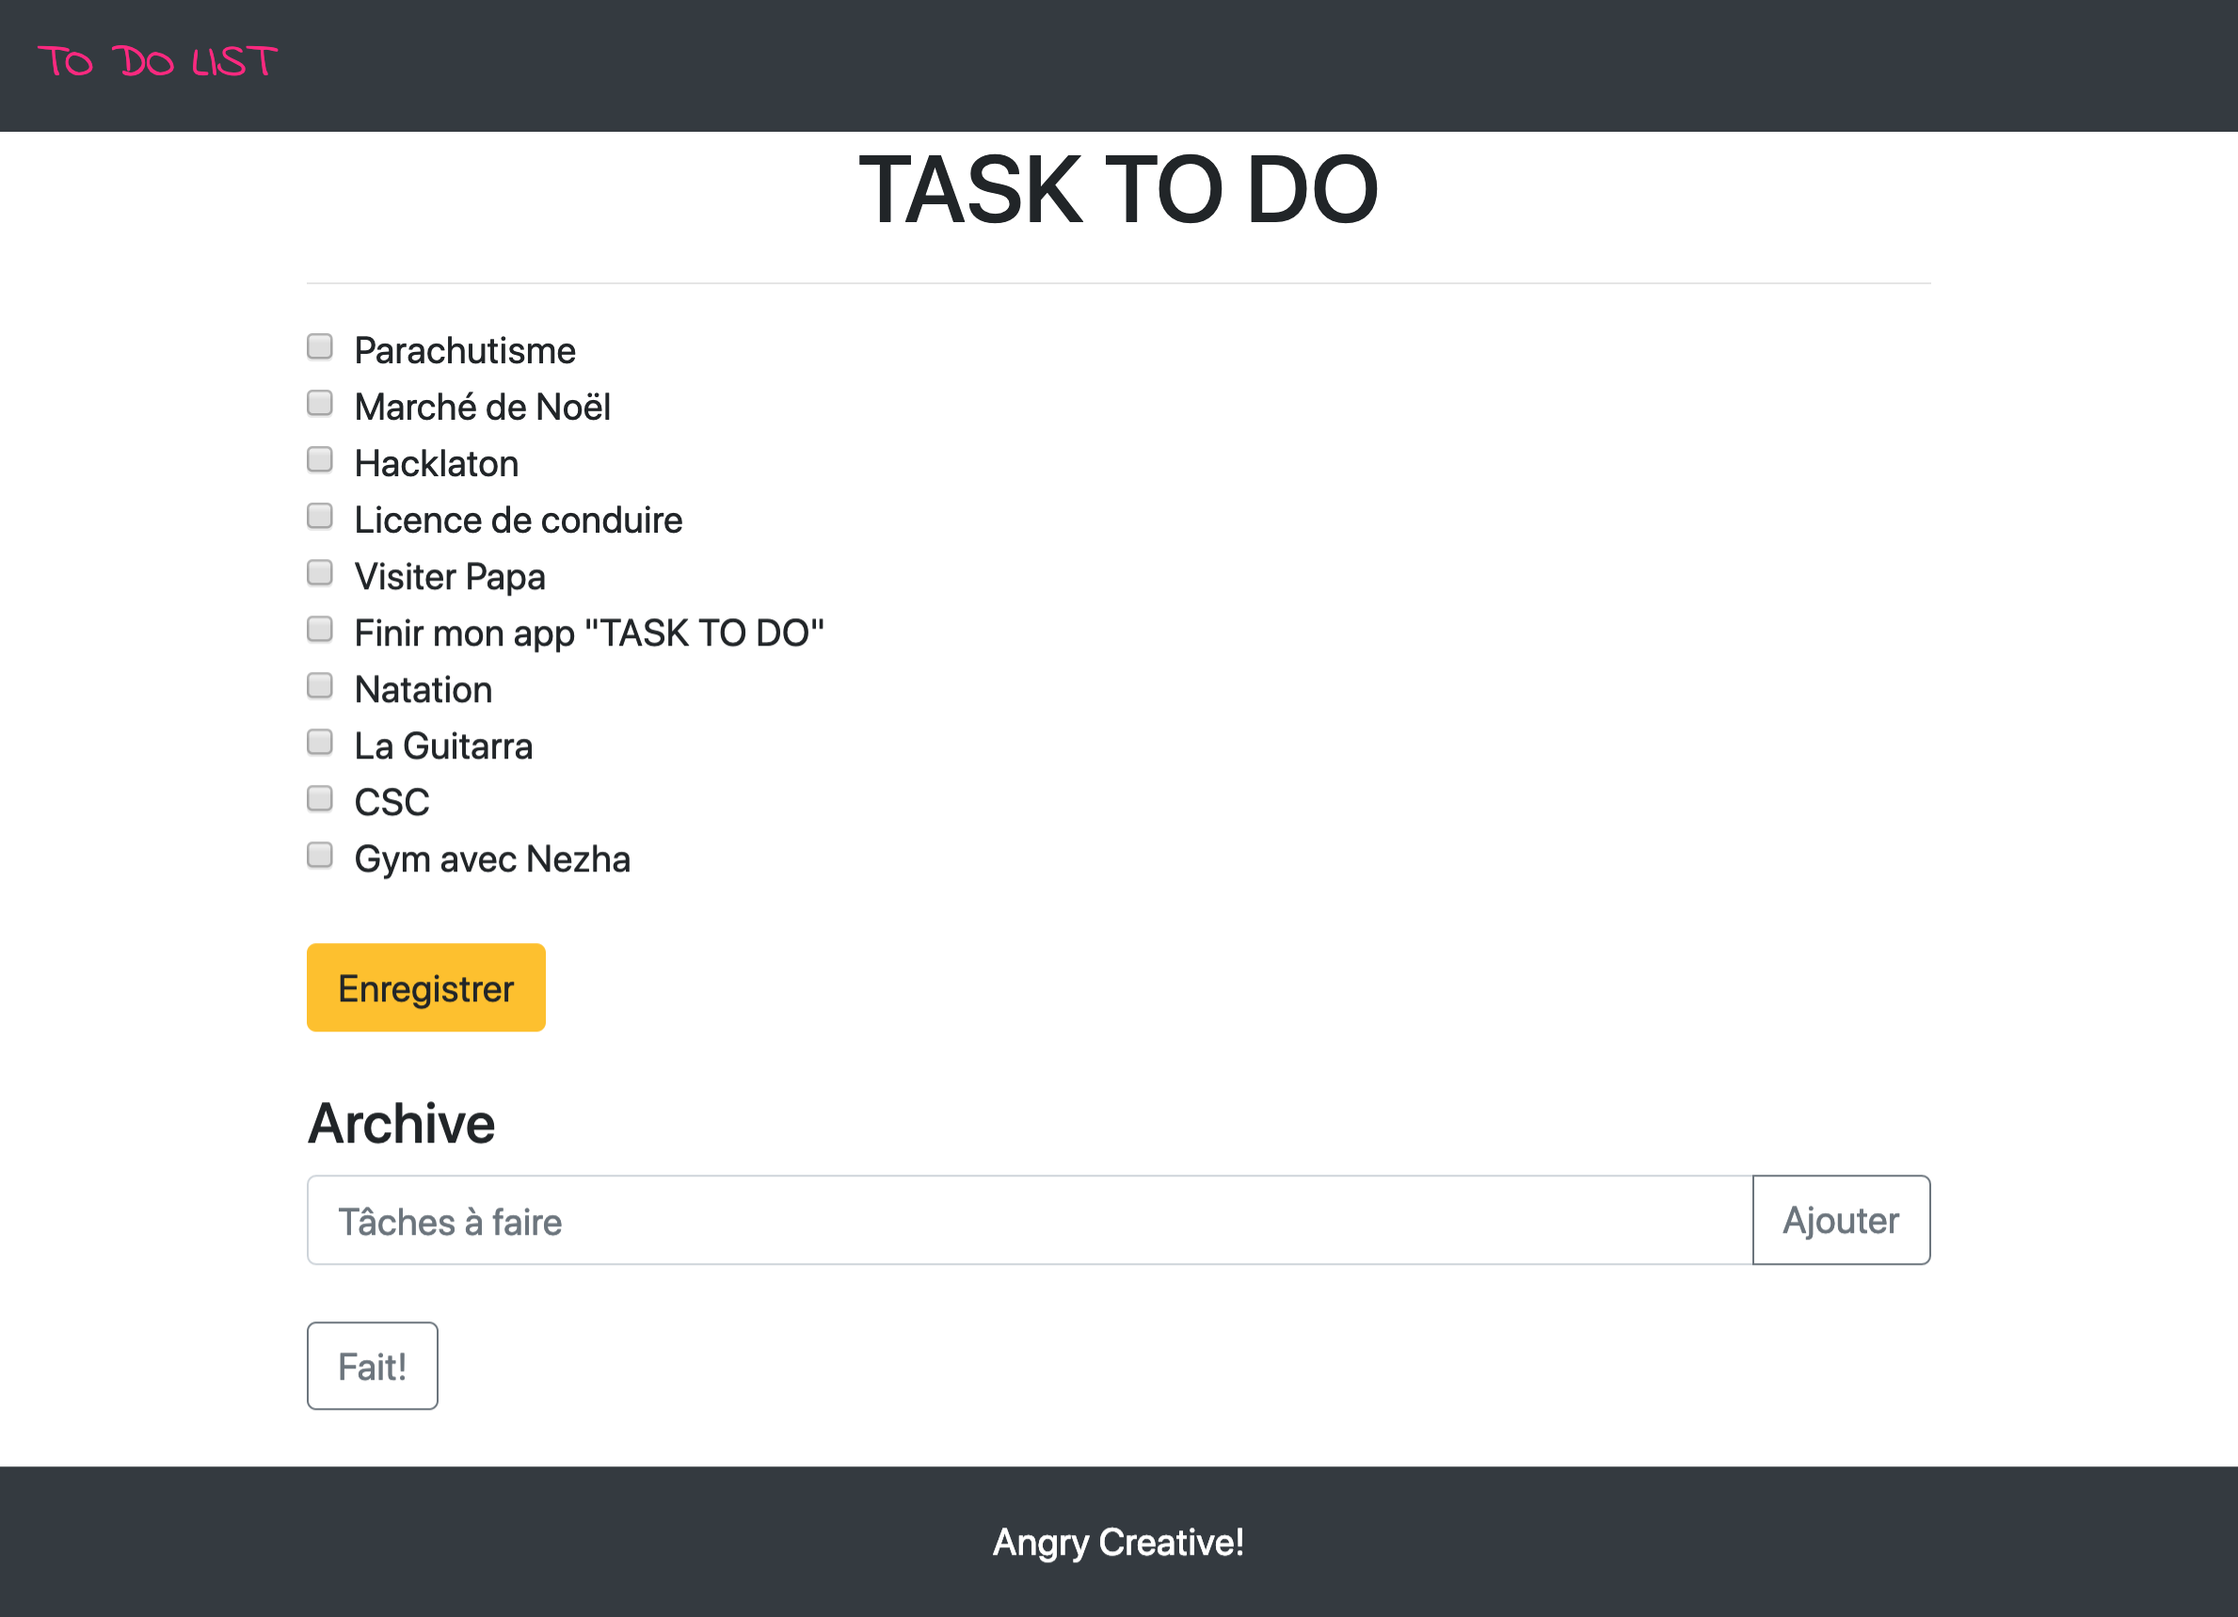
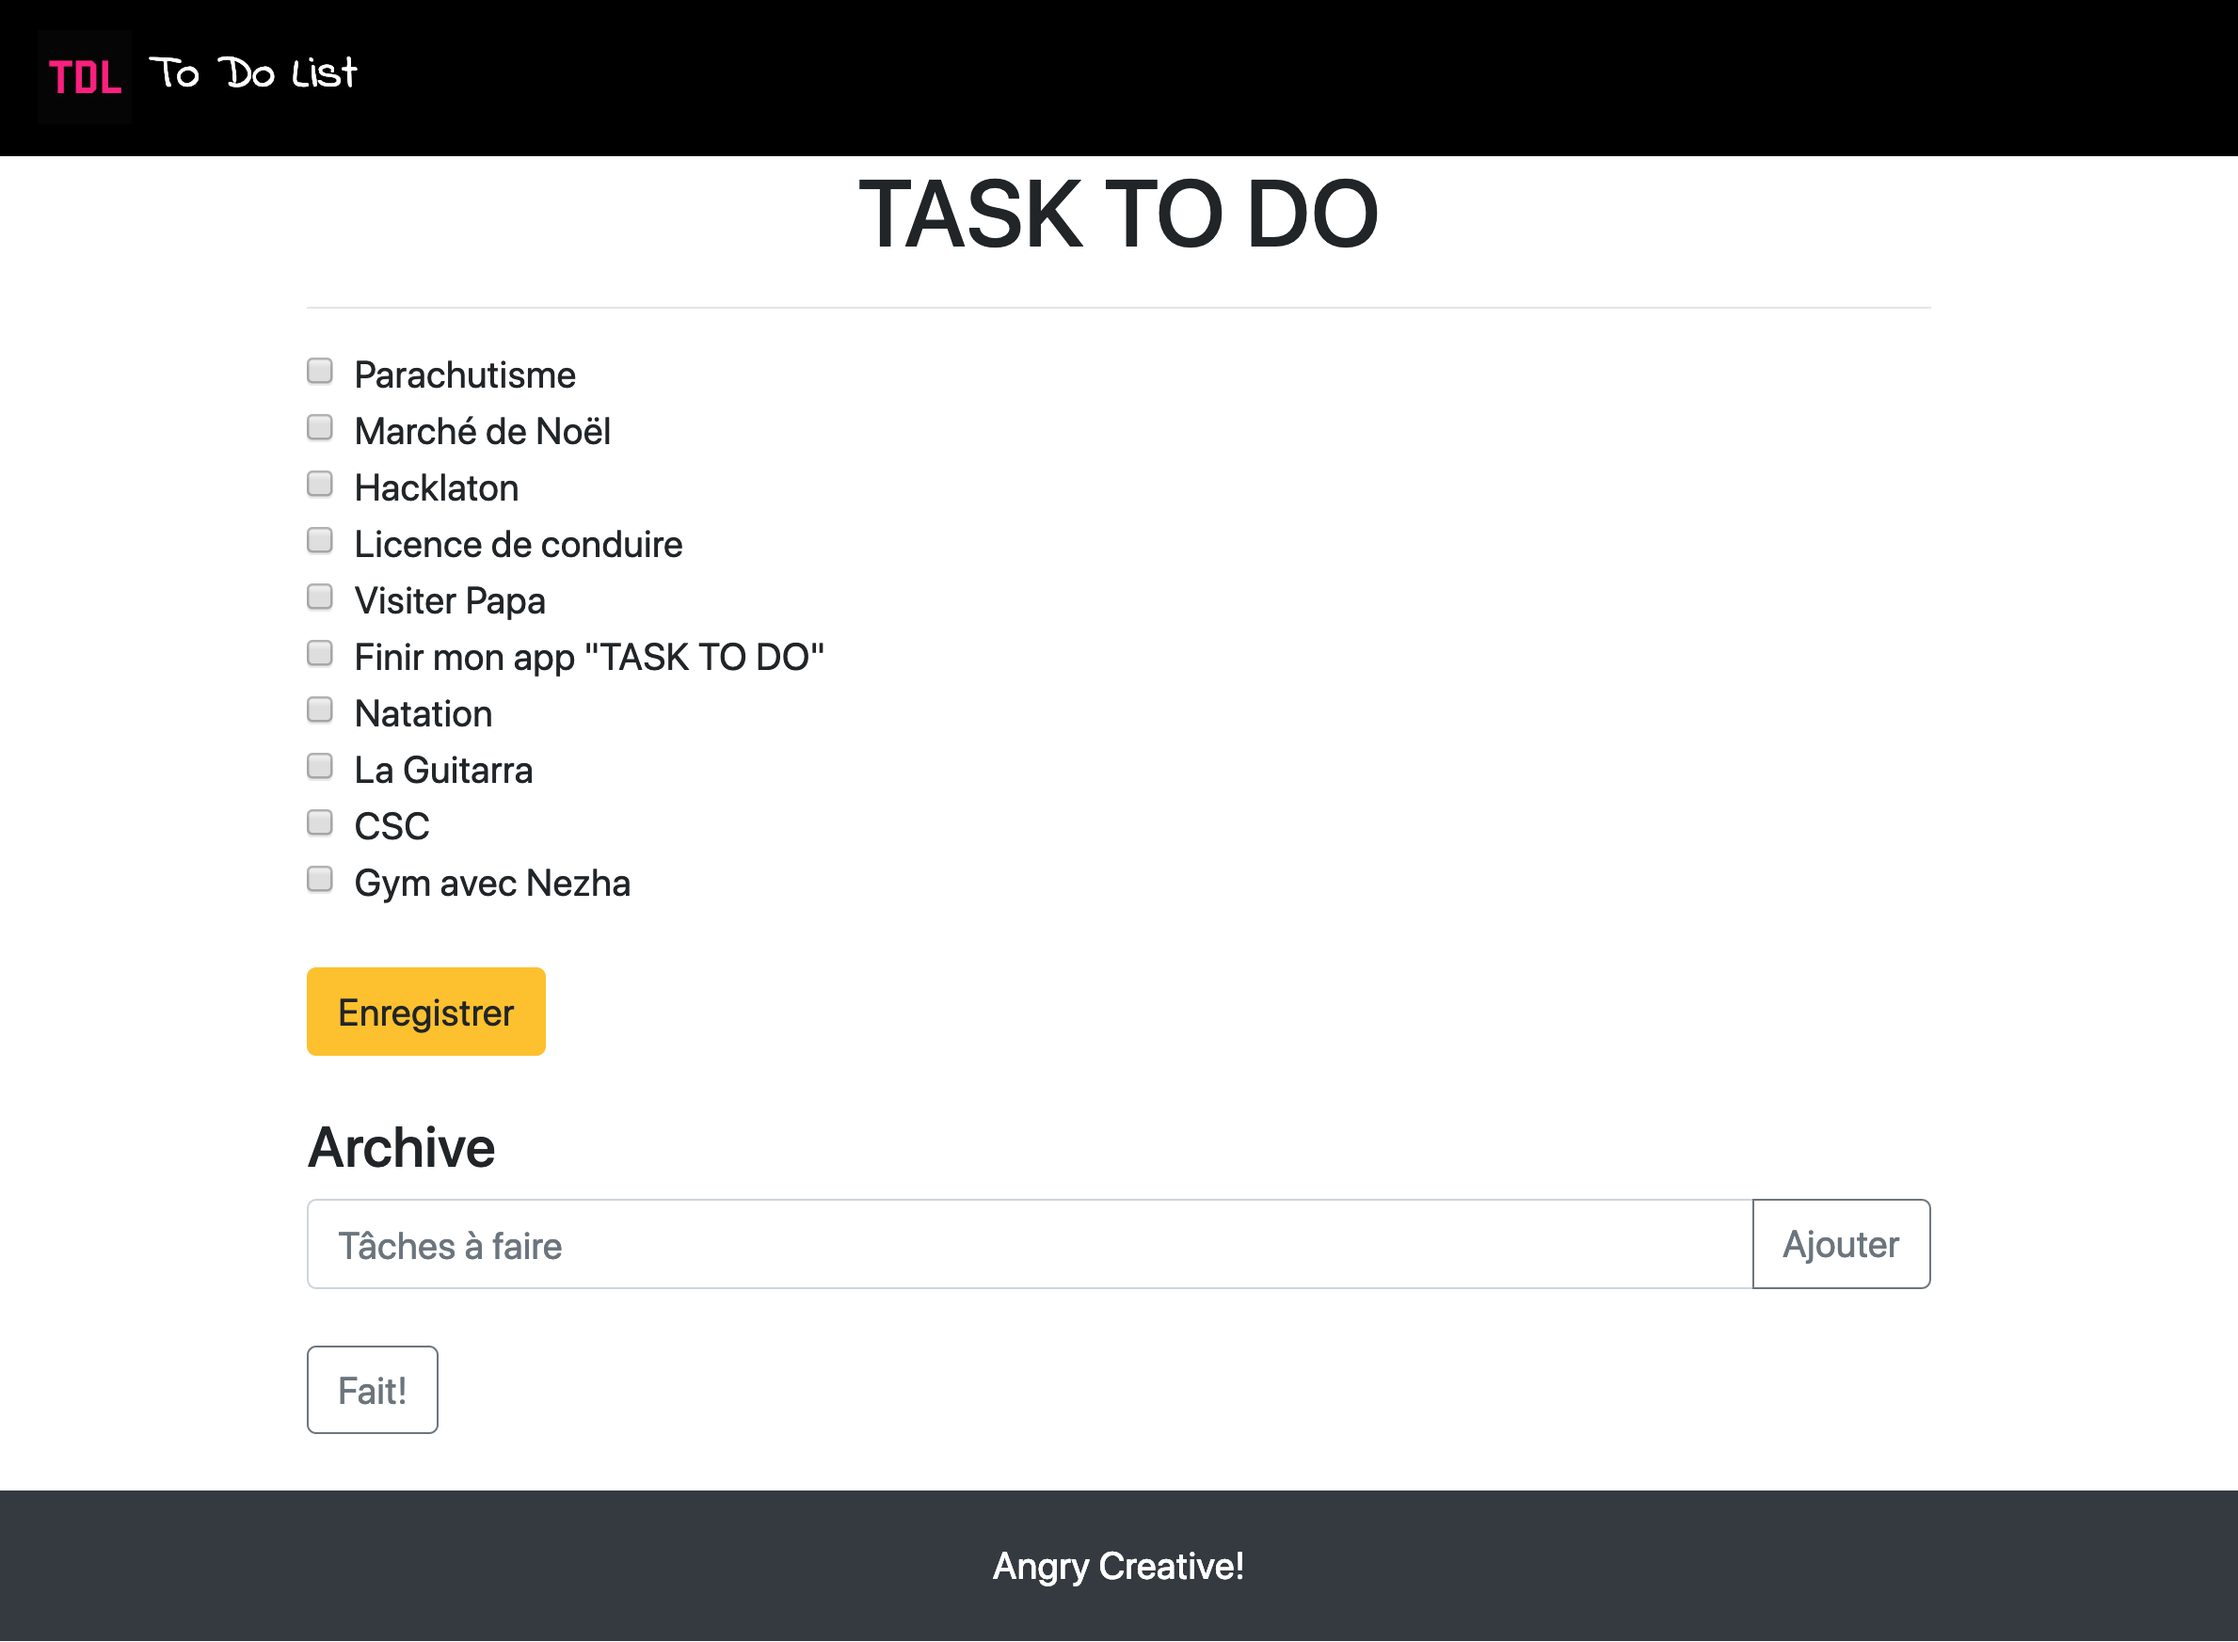
++

diff --git a/assets/style.css b/assets/style.css
@@ -19,8 +19,11 @@ table {
 			background-color: #dddddd;
 		}
 nav a {
-	color: #fd217e!important;
+	color: #fff!important;
 	font-family: 'Indie Flower', cursive;
+}
+.navbar-dark {
+	background-color: #000!important;
 }
 h1{
 	text-align: center;

diff --git a/index.php b/index.php
@@ -28,6 +28,7 @@ if ($_SERVER['REQUEST_METHOD'] === "POST") {
 	<meta name="viewport" content="width=device-width, initial-scale=1.0">
 	<meta http-equiv="refresh">
 	<title>To Do List</title>
+	<link rel="icon" href="assets/img/favicon.ico" />
 	<!-- Bootstrap -->
 	<link rel="stylesheet" href="https://stackpath.bootstrapcdn.com/bootstrap/4.3.1/css/bootstrap.min.css">
 	<link rel="stylesheet" href="https://use.fontawesome.com/releases/v5.7.2/css/all.css">
@@ -39,9 +40,11 @@ if ($_SERVER['REQUEST_METHOD'] === "POST") {
 	<link href="https://fonts.googleapis.com/css?family=Indie+Flower" rel="stylesheet">
 </head>
 <body>
-	<nav class="navbar navbar-dark bg-dark">
-  		<a class="navbar-brand" href="#">TO DO LIST</a>
-	</nav>
+	<nav class="navbar navbar-expand-sm bg-dark navbar-dark">
+			<a href="index.html" class="navbar-brand">
+				<img src="assets/img/logo.jpg" alt="logo TDL" width="40"> To Do List
+			</a>
+	</nav>		
 	<div class="container">
 		<form method="POST" action="<?php echo htmlspecialchars($_SERVER["PHP_SELF"]);?>">
 			<h1>Task To Do</h1><hr>

diff --git a/README.md b/README.md
@@ -3,7 +3,7 @@
 ## Parametres
 **repository :** `todolist-sql`  
 
-**Concepto:** Meilyn Andrade
+**Dev:** Meilyn Andrade
 
 **Où:** BeCode [Junior Web Developper]
 
@@ -14,6 +14,7 @@
 ## Projet
 
 
+
 Crée un outil de gestion de tâches basique et fiable. L'interface est subdivisée en deux parties :
 
 partie supérieure : la liste des tâches à faire, avec pour chaque tâche, une checkbox. Lorsqu'une tâche est effectuée, on coche la tâche puis on appuye sur un bouton "Enregistrer" qui rafraichit la liste en barrant la tâche terminée et en la mettant dans la zone "archivée".
@@ -22,7 +23,7 @@ partie inférieure : un petit formulaire permettant d'ajouter une tâche (un cha
 
 Mon App avances: 
 
-- [x] Possibilitée de créer des tâches 
+- [x] Possibilitée de créer des tâches :+1:
 - [ ] Archive
 - [ ] Bonus
 
